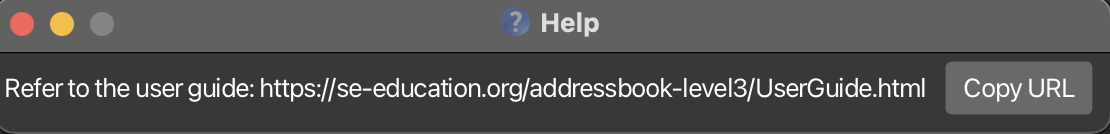
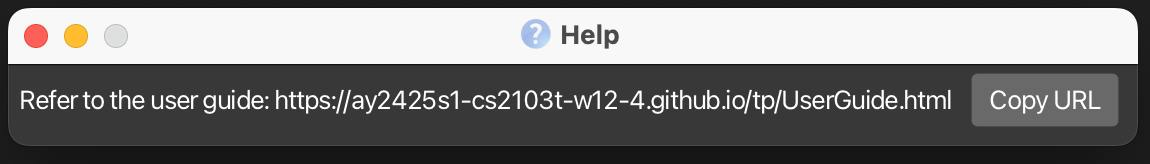
Update UserGuide.md and images

diff --git a/docs/UserGuide.md b/docs/UserGuide.md
@@ -71,15 +71,6 @@ If you can type fast and you need to manage celebrities and their schedules, **T
 * If you are using a PDF version of this document, be careful when copying and pasting commands that span multiple lines as space characters surrounding line-breaks may be omitted when copied over to the application.
 </div>
 
-### Viewing help : `help`
-
-Shows a message explaning how to access the help page.
-
-![help message](images/helpMessage.png)
-
-Format: `help`
-
-
 ### Adding a person: `add`
 
 Adds a person to the address book.
@@ -148,7 +139,7 @@ Examples:
 * `find person John` returns `john` and `John Doe`
 * `find person john betsy` returns `John Doe`, `Betsy Crowe`
 
-<br>![result for 'find john betsy'](images/findJohnBetsyResult.png)
+![result for 'find john betsy'](images/findJohnBetsyResult.png)
 
 ### Locating events by name: `find event`
 
@@ -167,7 +158,7 @@ Examples:
 * `find event Hiking` returns `Hiking` and `Park Hiking`
 * `find event Hair Oscars` returns `Hair Cut`, `Oscars`
 
-<br>![result for 'find hair oscars'](images/findHairOscarsResult.png)
+![result for 'find hair oscars'](images/findHairOscarsResult.png)
 
 ### Viewing person by name: `view person`
 
